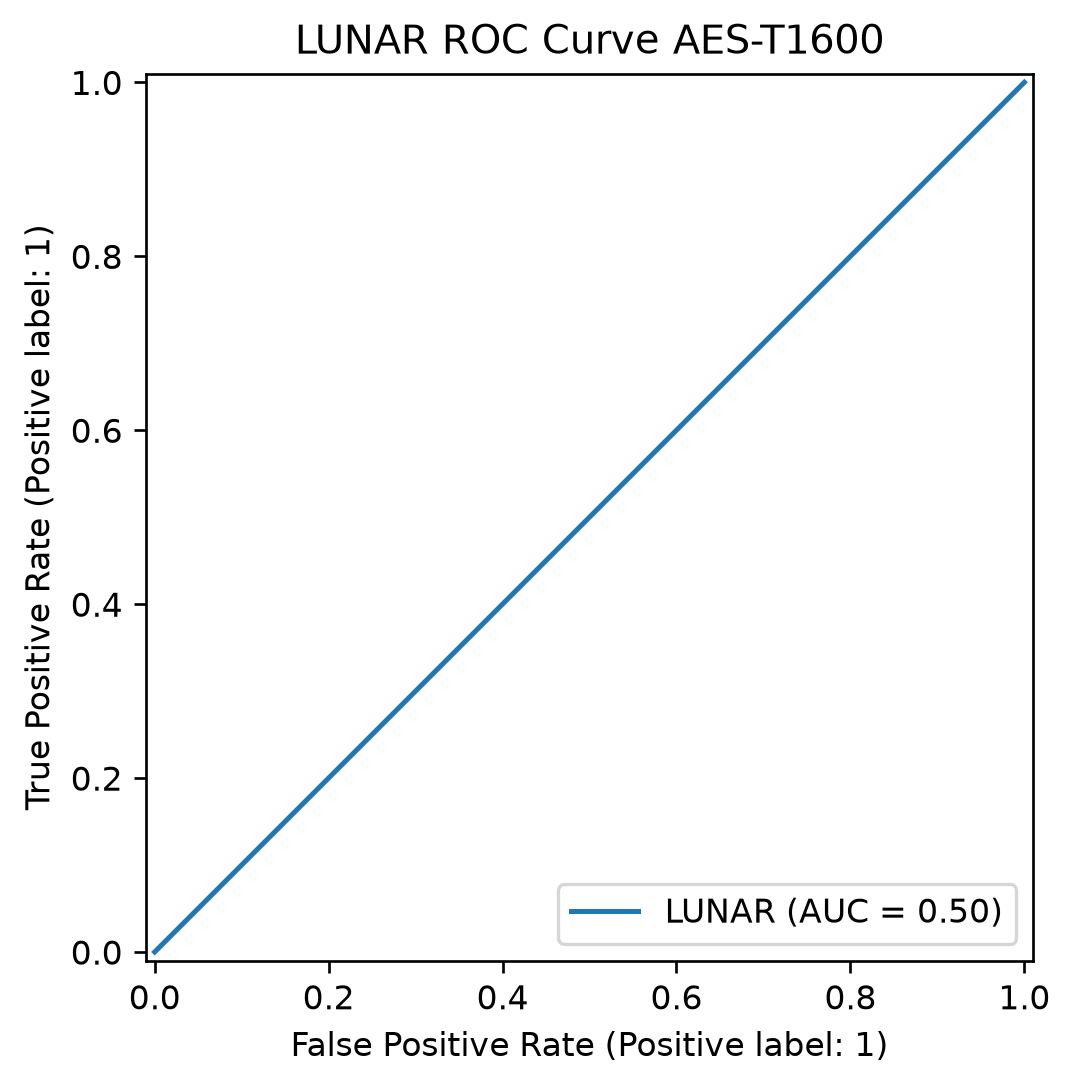
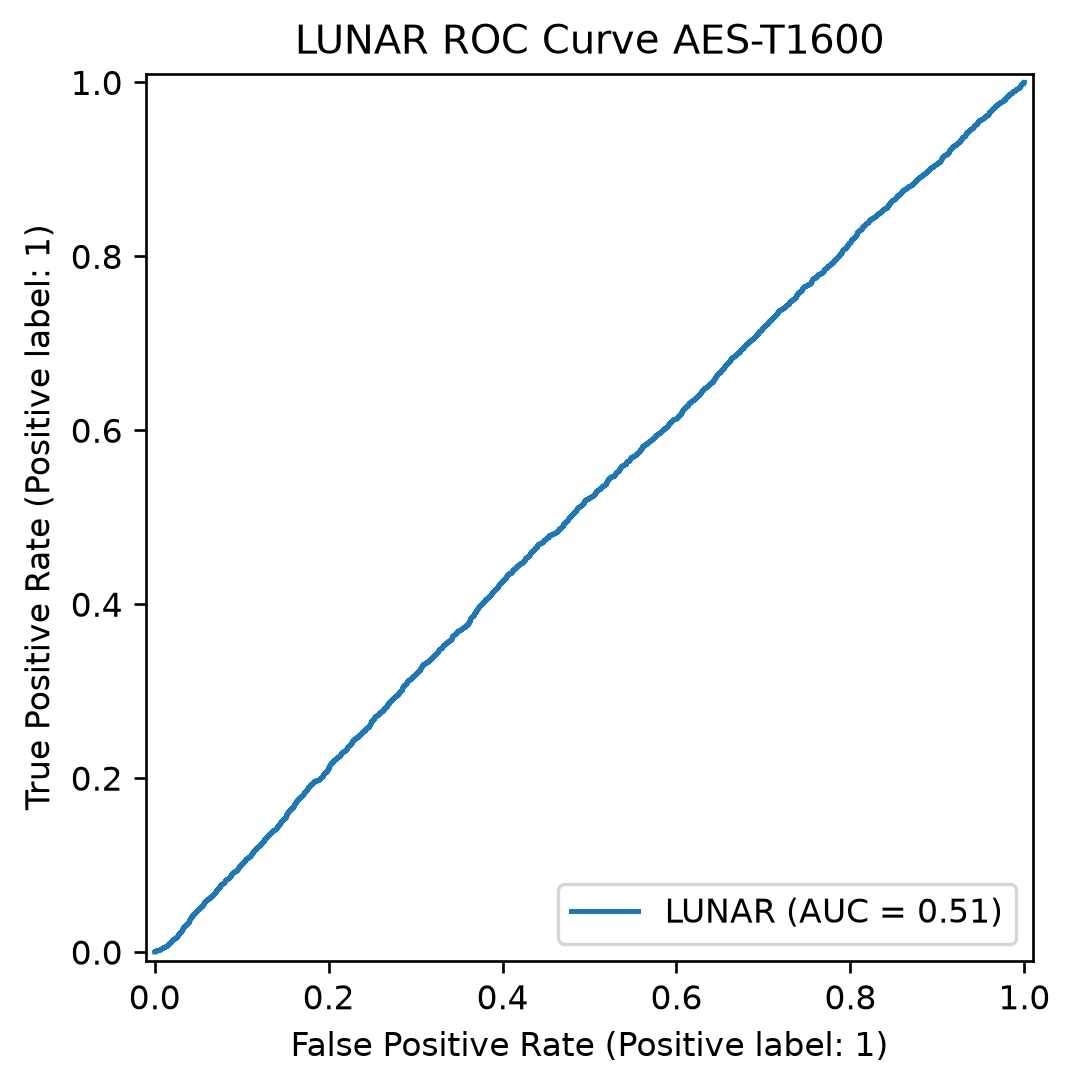
MOD: Correct LUNAR results

diff --git a/data/AES-T1600/RESULTS.md b/data/AES-T1600/RESULTS.md
@@ -75,8 +75,8 @@ Unless explicitly stated otherwise, all models utilized 32-feature latent space 
 | Spectral Residual | 0.494996 | 0.659365 |       |
 
 ### Graph-Based Embeddings 
-| Algorithmn  | ROC-AUC | PR-AUC | Notes                                |
-| ----------- | ------- | ------ | ------------------------------------ |
-| LUNAR       | 0.5     | 0.5    |                                      |
-| RGraph      | -       | -      | Omitted                              |
-| EmbeddingOD | -       | -      | Omitted, not compatible with dataset |
+| Algorithmn  | ROC-AUC  | PR-AUC   | Notes                                |
+| ----------- | -------- | -------- | ------------------------------------ |
+| LUNAR       | 0.512852 | 0.669608 |                                      |
+| RGraph      | -        | -        | Omitted                              |
+| EmbeddingOD | -        | -        | Omitted, not compatible with dataset |
